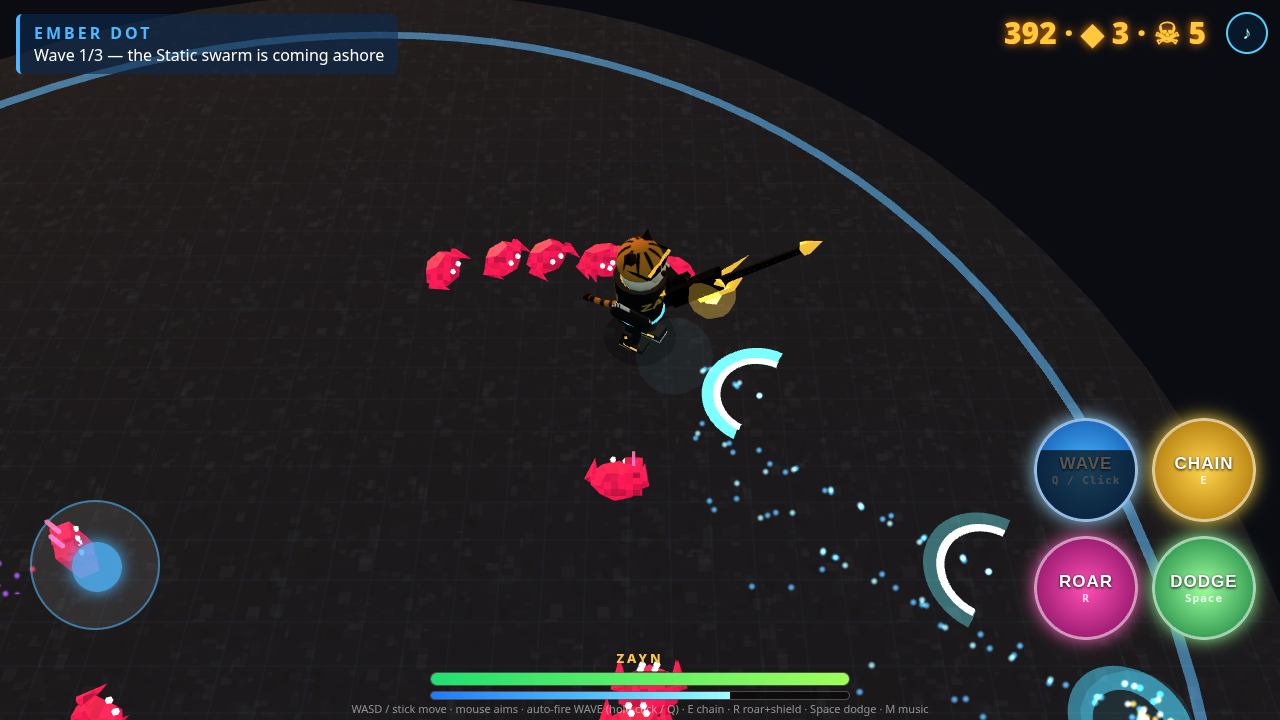
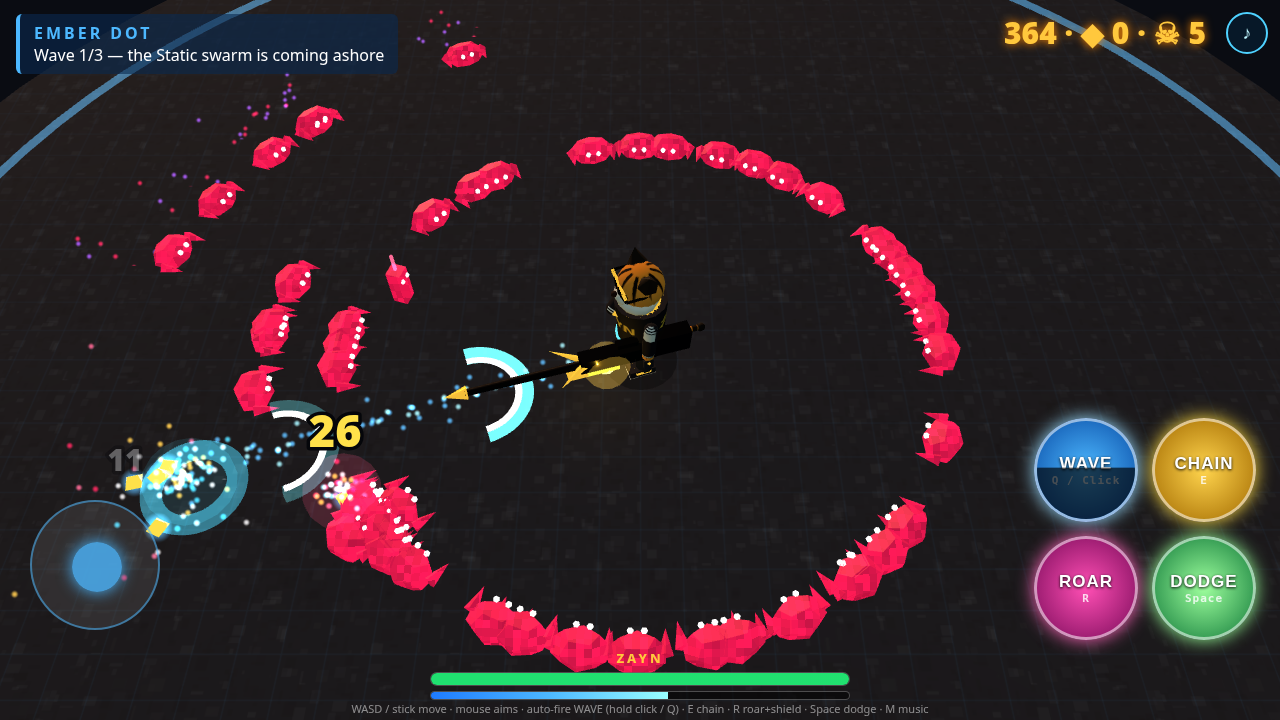
VFX retune (art director iso-1..5): dmg numbers 1.5x w/ heavy outline, gems 1.4x + sky-blue pulse, gold shield rim, quieter ROAR (thin rings, fewer sparks), Zayn top-down: bigger ears, gold collar ring, +20% rifle stock

diff --git a/public/game.js b/public/game.js
@@ -84,7 +84,7 @@ function stepParticles(dt) {
 }
 // expanding FX meshes (rings, flashes)
 const fx = [];
-function ring(p, col, max = 10, life = .5, y = .3) { const m = new THREE.Mesh(new THREE.TorusGeometry(1, .25, 8, 48), glow(col)); m.rotation.x = Math.PI / 2; m.position.set(p.x, y, p.z); scene.add(m); fx.push({ m, t: 0, life, max }); }
+function ring(p, col, max = 10, life = .5, y = .3, tube = .25) { const m = new THREE.Mesh(new THREE.TorusGeometry(1, tube, 8, 48), glow(col)); m.rotation.x = Math.PI / 2; m.position.set(p.x, y, p.z); scene.add(m); fx.push({ m, t: 0, life, max }); }
 function flash(p, col, max = 4, life = .25) { const m = new THREE.Mesh(new THREE.SphereGeometry(1, 16, 12), glow(col)); m.position.copy(p); scene.add(m); fx.push({ m, t: 0, life, max }); }
 function stepFx(dt) { for (let i = fx.length - 1; i >= 0; i--) { const f = fx[i]; f.t += dt; const k = f.t / f.life; f.m.scale.setScalar(.2 + k * f.max); f.m.material.opacity = (f.m.geometry.type === 'SphereGeometry' ? .45 : 1) * (1 - k); if (k >= 1) { scene.remove(f.m); f.m.geometry.dispose(); fx.splice(i, 1); } } }
 
@@ -116,7 +116,7 @@ function makeZayn() {
   // tiger head
   const head = new THREE.Mesh(new THREE.SphereGeometry(.72, 20, 14), fur); head.position.y = 3.85; head.scale.set(1, .95, 1);
   const ruff = new THREE.Mesh(new THREE.SphereGeometry(.62, 14, 8), M(0xfff3e0, 0, { roughness: 1 })); ruff.position.set(0, 3.45, .12); ruff.scale.set(1.25, .6, 1.05);
-  const mkEar = sx => { const e = new THREE.Mesh(new THREE.ConeGeometry(.24, .38, 6), M(0x1a120c)); e.position.set(sx * .5, 4.5, -.05); e.rotation.z = -sx * .35;
+  const mkEar = sx => { const e = new THREE.Mesh(new THREE.ConeGeometry(.32, .5, 6), M(0x1a120c)); e.position.set(sx * .56, 4.55, -.05); e.rotation.z = -sx * .35;
     const w = new THREE.Mesh(new THREE.CircleGeometry(.11, 8), M(0xffffff)); w.position.set(0, -.02, -.2); w.rotation.y = Math.PI; e.add(w); return e; };
   const muzzle = new THREE.Mesh(new THREE.SphereGeometry(.34, 12, 8), M(0xfff1dc, 0, { roughness: 1 })); muzzle.position.set(0, 3.62, .58); muzzle.scale.set(1.1, .7, .7);
   const nose = new THREE.Mesh(new THREE.SphereGeometry(.1, 8, 6), M(0x2a1410)); nose.position.set(0, 3.74, .82);
@@ -126,8 +126,9 @@ function makeZayn() {
     const arm = new THREE.Mesh(new THREE.BoxGeometry(.05, .07, .7), lensM); arm.position.set(sx * .66, .05, -.35); shades.add(arm); }
   const bar = new THREE.Mesh(new THREE.BoxGeometry(1.2, .07, .09), gold); bar.position.y = .12; shades.add(bar); shades.position.set(0, 3.98, .66);
   // gold cuban chain (instanced links)
-  const N = 22, chain = new THREE.InstancedMesh(new THREE.TorusGeometry(.085, .035, 5, 10), gold, N), o = new THREE.Object3D();
+  const N = 22, chain = new THREE.InstancedMesh(new THREE.TorusGeometry(.11, .05, 5, 10), gold, N), o = new THREE.Object3D();
   for (let i = 0; i < N; i++) { const a = i / N * Math.PI * 2; o.position.set(Math.sin(a) * .62, 3.2 - Math.max(0, Math.cos(a)) * .32, Math.cos(a) * .55); o.rotation.set(0, a, i % 2 ? Math.PI / 2 : 0); o.updateMatrix(); chain.setMatrixAt(i, o.matrix); }
+  const collar = new THREE.Mesh(new THREE.TorusGeometry(.66, .09, 6, 24), gold); collar.rotation.x = Math.PI / 2; collar.position.y = 3.12;
   const pendant = new THREE.Mesh(new THREE.OctahedronGeometry(.16, 0), gold); pendant.position.set(0, 2.78, .75);
   // tail (stripey, curves down)
   const tail = new THREE.Group(); tail.position.set(0, 1.55, -.6); const tm = new THREE.MeshStandardMaterial({ map: tailTex, roughness: .95 });
@@ -148,7 +149,7 @@ function makeZayn() {
   add(new THREE.ConeGeometry(.16, .5, 6), gold, 0, 3.7, .06);                        // spear tip
   add(new THREE.BoxGeometry(.4, 1.2, .1), gold, 0, .6, .25);                         // gold side plate
   for (const sx of [-1, 1]) { const f = add(new THREE.ConeGeometry(.12, .9, 4), gold, sx * .28, 1.1, 0); f.rotation.z = sx * -.6; } // fins
-  add(new THREE.BoxGeometry(.3, .9, .5), gunM, 0, -1.25, -.12);                      // stock
+  add(new THREE.BoxGeometry(.36, .9, .6), gunM, 0, -1.25, -.12);                      // stock
   add(new THREE.BoxGeometry(.18, .5, .14), gunM, 0, -.2, -.35);                      // grip
   const core = add(new THREE.IcosahedronGeometry(.24, 0), M(0xffd45a, 3), 0, .25, .32);  // crown core
   for (let i = 0; i < 3; i++) add(new THREE.ConeGeometry(.06, .22, 4), M(0xffd45a, 2.5), (i - 1) * .12, .25 + (i === 1 ? .32 : .24), .32);
@@ -157,7 +158,7 @@ function makeZayn() {
   armR.add(rifle);
   const bl = new THREE.PointLight(0xffc83d, 5, 8); bl.position.set(0, -1.3, 1.6); armR.add(bl);
   const shadow = new THREE.Mesh(new THREE.CircleGeometry(1.2, 20), new THREE.MeshBasicMaterial({ color: 0, transparent: true, opacity: .3 })); shadow.rotation.x = -Math.PI / 2; shadow.position.y = .05;
-  g.add(legL, legR, body, hem, trim, head, ruff, mkEar(-1), mkEar(1), muzzle, nose, shades, chain, pendant, tail, armL, armR, shadow);
+  g.add(legL, legR, body, hem, trim, head, ruff, mkEar(-1), mkEar(1), muzzle, nose, shades, chain, collar, pendant, tail, armL, armR, shadow);
   g.userData = { legL, legR, armR, blade, core, tail }; g.scale.setScalar(1.6); return g;
 }
 const zayn = makeZayn(); scene.add(zayn);
@@ -223,15 +224,15 @@ function decal(p, r, life) { const m = new THREE.Mesh(new THREE.CircleGeometry(1
   const rim = new THREE.Mesh(new THREE.RingGeometry(.92, 1, 40), glow(0xff2a5a)); m.add(rim); decals.push({ m, t: 0, life }); return m; }
 
 // ===== gems (glowing yellow XP) =====
-const MAXG = 500, gemIM = new THREE.InstancedMesh(new THREE.OctahedronGeometry(.38, 0), new THREE.MeshBasicMaterial({ color: 0xffe14a }), MAXG);
+const MAXG = 500, gemIM = new THREE.InstancedMesh(new THREE.OctahedronGeometry(.53, 0), new THREE.MeshBasicMaterial({ color: 0xffe14a }), MAXG);
 gemIM.count = 0; gemIM.frustumCulled = false; scene.add(gemIM);
-const gemGlow = new THREE.Points(new THREE.BufferGeometry(), new THREE.PointsMaterial({ size: 2.4, map: dot, color: 0xffc82a, transparent: true, blending: THREE.AdditiveBlending, depthWrite: false }));
+const gemGlow = new THREE.Points(new THREE.BufferGeometry(), new THREE.PointsMaterial({ size: 3.6, map: dot, color: SKY, transparent: true, blending: THREE.AdditiveBlending, depthWrite: false }));
 const gemGlowPos = new Float32Array(MAXG * 3); gemGlow.geometry.setAttribute('position', new THREE.BufferAttribute(gemGlowPos, 3)); gemGlow.frustumCulled = false; scene.add(gemGlow);
 const gems = [];
 
 // ===== shield bubble =====
 const shield = new THREE.Mesh(new THREE.SphereGeometry(3.2, 24, 16), new THREE.MeshBasicMaterial({ color: 0x3ef2ff, transparent: true, opacity: .22, blending: THREE.AdditiveBlending, depthWrite: false }));
-const shieldRim = new THREE.Mesh(new THREE.TorusGeometry(3.2, .12, 6, 48), glow(0x9ffcff)); shieldRim.rotation.x = Math.PI / 2; shield.add(shieldRim);
+const shieldRim = new THREE.Mesh(new THREE.TorusGeometry(3.2, .3, 6, 48), glow(0xffc83d)); shieldRim.rotation.x = Math.PI / 2; shieldRim.material.opacity = 1; shieldRim.position.y = -1.6; shield.add(shieldRim);
 shield.visible = false; scene.add(shield);
 
 // ===== 2D overlay: thin red HP bars + bouncy white damage numbers =====
@@ -250,7 +251,7 @@ function drawOverlay(dt) {
   for (let i = nums.length - 1; i >= 0; i--) { const n = nums[i]; n.t += dt; if (n.t > .9) { nums.splice(i, 1); continue; }
     n.vy += 900 * dt; const [sx, sy] = toScreen(n, n.y); n.ox = (n.ox || 0) + n.vx * dt; n.oy = Math.min((n.oy || 0) + n.vy * dt, 10);
     const pop = n.t < .08 ? 1 + (.08 - n.t) * 10 : 1, a = n.t > .6 ? (.9 - n.t) / .3 : 1;
-    ox.globalAlpha = a; ox.font = `900 ${(n.big ? 30 : 20) * pop}px system-ui`; ox.lineWidth = 4; ox.strokeStyle = '#000'; ox.strokeText(n.txt, sx + n.ox, sy + n.oy); ox.fillStyle = n.col; ox.fillText(n.txt, sx + n.ox, sy + n.oy); }
+    ox.globalAlpha = a; ox.font = `900 ${(n.big ? 45 : 30) * pop}px system-ui`; ox.lineWidth = 7; ox.strokeStyle = '#05060a'; ox.strokeText(n.txt, sx + n.ox, sy + n.oy); ox.fillStyle = n.col; ox.fillText(n.txt, sx + n.ox, sy + n.oy); }
   ox.globalAlpha = 1;
 }
 
@@ -313,7 +314,7 @@ function damage(e, d, kbv) {
 }
 function kill(e) { const i = enemies.indexOf(e); if (i < 0) return; enemies.splice(i, 1); if (e.mesh) scene.remove(e.mesh);
   const p = e.pos.clone().setY(1.2), big = e.type === 'brute';
-  burst(p, [0xff1450, 0xff5a8a, 0xffffff, 0xffc83d], big ? 160 : 28, big ? 20 : 11, big ? 12 : 7); flash(p, 0xff3c6e, big ? 9 : 2.6, .22); if (big) { ring(e.pos, 0xff2a5a, 16, .6); S.shake = .6; }
+  burst(p, [0xff1450, 0xff5a8a, 0xffffff, 0xffc83d], big ? 160 : (S.quiet ? 6 : 28), big ? 20 : 11, big ? 12 : 7); flash(p, 0xff3c6e, big ? 9 : 2.6, .22); if (big) { ring(e.pos, 0xff2a5a, 16, .6); S.shake = .6; }
   for (let k = 0; k < e.T.xp; k++) if (gems.length < MAXG) gems.push({ p: e.pos.clone().add(new THREE.Vector3((Math.random() - .5) * (big ? 4 : .6), .9, (Math.random() - .5) * (big ? 4 : .6))), v: 0, t: Math.random() * 6 });
   S.kills++; S.score += big ? 1000 : 50; S.en = Math.min(100, S.en + (big ? 20 : 1.5)); S.shake = Math.max(S.shake, .12); }
 const waves = [], ropes = [];
@@ -328,9 +329,9 @@ const act = {
     const rope = new THREE.Mesh(new THREE.CylinderGeometry(.3, .3, len, 6), M(0xffd44d, 2, { transparent: true })); rope.position.copy(st).lerp(end.clone().setY(1.5), .5); rope.lookAt(end.clone().setY(1.5)); rope.rotateX(Math.PI / 2); scene.add(rope); ropes.push({ m: rope, t: .4 });
     boom(end, 0xffc83d, 7, 40, 14); ring(end, 0xff8a1e, 10, .5, 1.2);
     S.shake = .4; banner('GOLD CHAIN!', '#ffc83d'); },
-  roar() { const p = zayn.position.clone(); ring(p, 0xff3cac, 22, .7, .5); ring(p, SKY, 28, .9, .3); ring(p, 0xffc83d, 16, .5, 1.5); flash(p.clone().setY(2), 0xffffff, 6, .2);
-    burst(p.clone().setY(1), [0xff3cac, 0xffc83d, SKY, 0xffffff], 260, 30, 12);
-    for (const e of [...enemies]) { const d = e.pos.clone().sub(p).setY(0); if (d.length() < 15) { e.stun = 2; damage(e, 30, d.normalize().multiplyScalar(22)); } }
+  roar() { const p = zayn.position.clone(); ring(p, 0xffc83d, 16, .45, .3, .05); ring(p, SKY, 12, .3, .3, .04); flash(p.clone().setY(2), 0xffffff, 3, .12);
+    burst(p.clone().setY(1), [0xffc83d, SKY], 50, 22, 4); S.quiet = true;
+    for (const e of [...enemies]) { const d = e.pos.clone().sub(p).setY(0); if (d.length() < 15) { e.stun = 2; damage(e, 30, d.normalize().multiplyScalar(22)); } } S.quiet = false;
     S.buff = 5; S.shake = .8; banner('ROAR · SHIELD UP!', '#3ef2ff'); },
   dodge() { S.dodge = .2; S.iframes = .5; ring(zayn.position, 0x3ef2ff, 4, .3); },
 };
@@ -434,7 +435,7 @@ function tick(now) {
       if (d < 7 || gm.v) { gm.v = Math.min(40, (gm.v || 8) + dt * 60); gm.p.x += dx / d * gm.v * dt; gm.p.z += dz / d * gm.v * dt; }
       if (d < 1.4 && S.mode === 'play') { gems.splice(i, 1); S.xp++; S.score += 10; S.en = Math.min(100, S.en + 1.2); continue; } }
     for (const gm of gems) { o3.position.set(gm.p.x, .9 + Math.sin(gm.t * 4) * .2, gm.p.z); o3.rotation.set(0, gm.t * 3, 0); o3.scale.setScalar(1); o3.updateMatrix(); gemIM.setMatrixAt(g, o3.matrix); gemGlowPos[g * 3] = o3.position.x; gemGlowPos[g * 3 + 1] = o3.position.y; gemGlowPos[g * 3 + 2] = o3.position.z; g++; }
-    gemIM.count = g; gemIM.instanceMatrix.needsUpdate = true; gemGlow.geometry.setDrawRange(0, g); gemGlow.geometry.attributes.position.needsUpdate = true;
+    gemIM.count = g; gemIM.instanceMatrix.needsUpdate = true; gemGlow.geometry.setDrawRange(0, g); gemGlow.material.opacity = .65 + Math.sin(S.t * 6) * .3; gemGlow.geometry.attributes.position.needsUpdate = true;
     // shield bubble (dodge i-frames / ROAR buff)
     const sh = S.iframes > 0 || S.buff > 0; shield.visible = sh && S.mode === 'play'; if (sh) { shield.position.set(zp.x, 2.4, zp.z); shield.scale.setScalar(1 + Math.sin(S.t * 10) * .04); shield.material.opacity = S.iframes > 0 ? .35 : .2; shieldRim.rotation.z += dt * 2; }
     // fixed isometric follow camera
